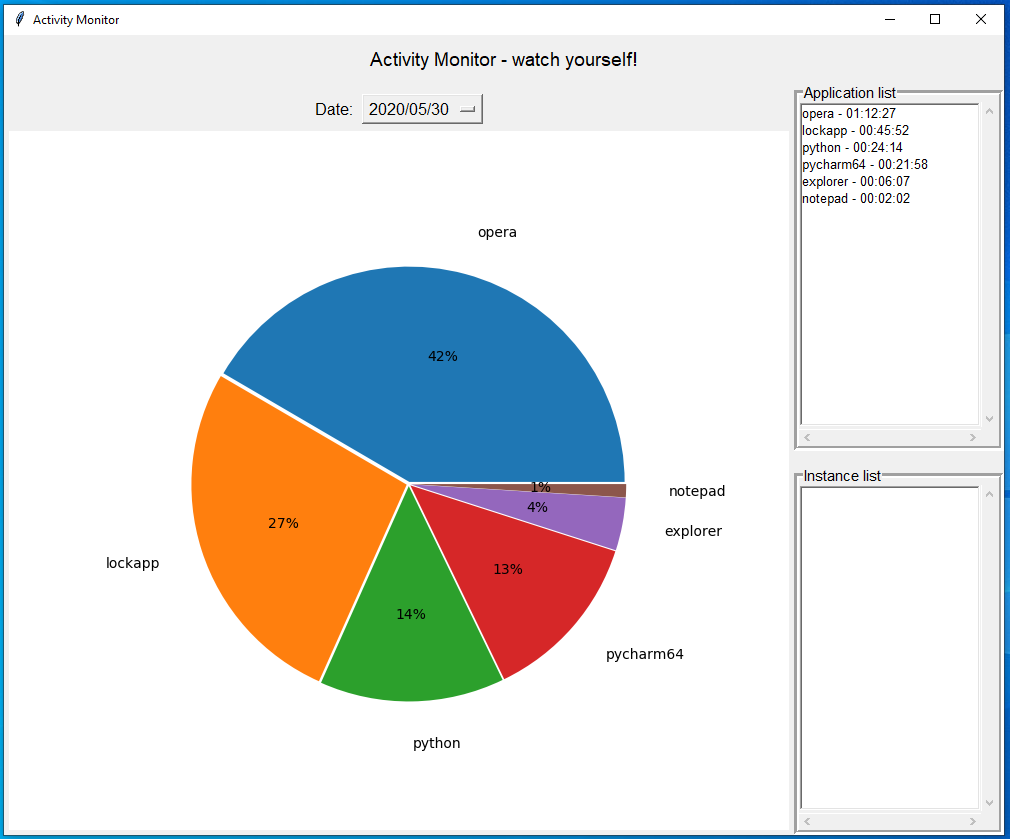
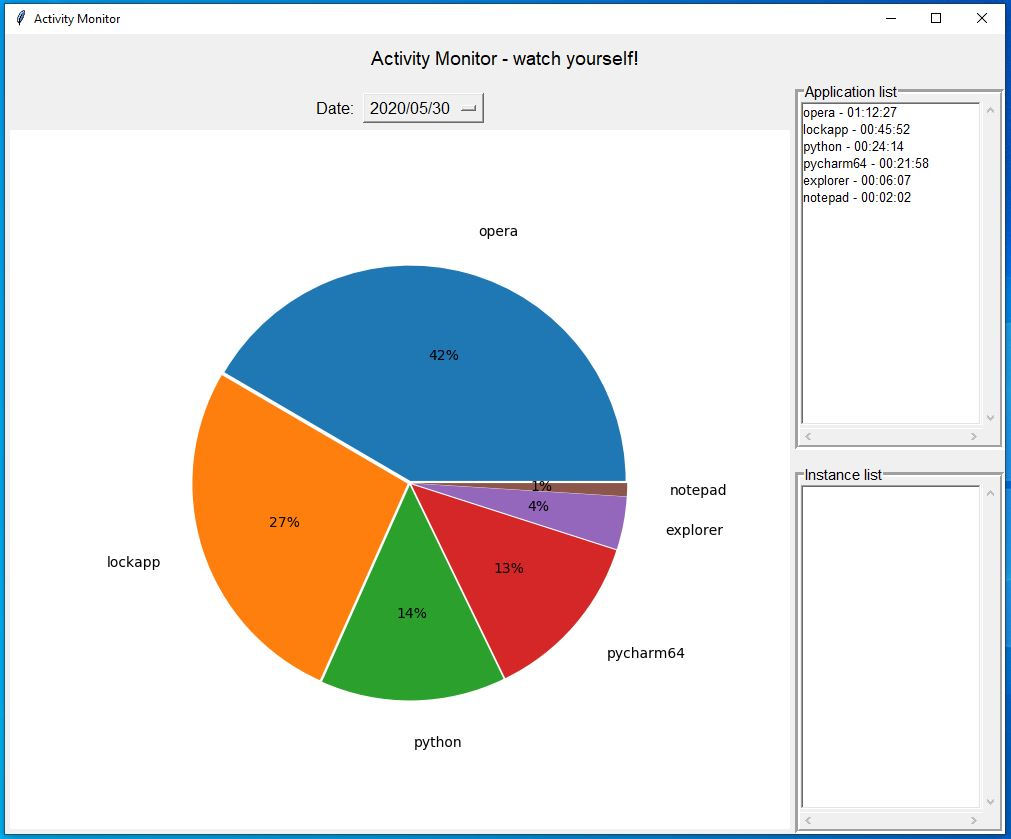
More screenshots of GUI added to docs folder.

diff --git a/README.md b/README.md
@@ -28,7 +28,8 @@ Minimal example of .json file:
 ```  
 
 * GUI - provides a way to visualize the text data using pie chart. Reads .json files generated by a logger module.
-  * Main window - after opening GUI file appears window that looks like ![this]()
+  * Main window - after opening GUI file appears window that looks like ![this][GUI main window]
+  
 
 ## Limitations
 Windows only (Logger module bases on win32gui and pywinauto). Tested on Windows 10
@@ -52,3 +53,6 @@ Then logger.exe and GUI.exe files will be created in _dist_ directory.
 ## Known problems  
 1. _Sometimes_ fetching an url of open website doesn't work correctly. In such case, name of the window is logged instead.
 It is either related to browser magic or pywinauto module. I couldn't find a way to reproduce it on demand. Maybe You can help?  
+
+## Refences
+[GUI main window]: https://github.com/Barud21/ActivityMonitor/blob/master/docs/ActivityMonitor_GUI_01.PNG
